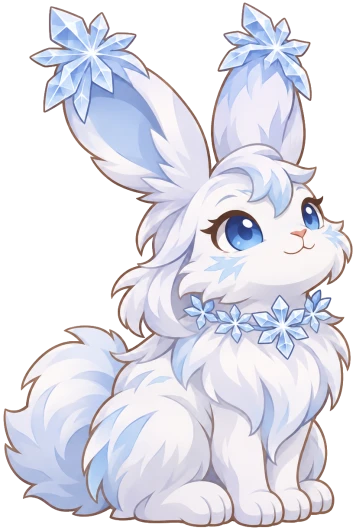
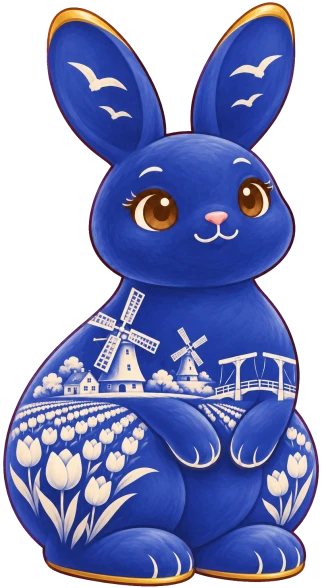
Évolution de Flocon de cristal repeinte : « Moulins et tulipes » (choix du propriétaire C)
- Assis, plus grand, porcelaine bleu cobalt peinte en blanc (couleurs du premier dessin inversées), sans pommettes roses.
- Peinture : moulins, pont-levis et champs de tulipes autour d'Amsterdam, mouettes dans les oreilles.
- Peint sur fond magenta et détouré ; paupières et truffe refaites, versions WebP, ancrages de la cuisine relus, taille qui garde la surface de l'ancienne évolution.

diff --git a/src/config/evolvedArt.ts b/src/config/evolvedArt.ts
@@ -105,7 +105,7 @@ export const EVOLVED_ART: readonly EvolvedSprite[] = [
   {id: 'bouyoyo', name: 'Boyoyoyoyoyo', file: 'assets/rabbits/bouyoyo/bouyoyo-v2.png', texture: 'rabbit-bouyoyo-evolved-v2', width: 452, height: 442, worldWidth: 53.3, groundY: 12},
   {id: 'lapin-de-sulli', name: 'Wtf', file: 'assets/rabbits/lapin-de-sulli/lapin-de-sulli-v2.png', texture: 'rabbit-lapin-de-sulli-evolved-v2', width: 361, height: 575, worldWidth: 42.6, groundY: 12, facing: 'left'},
   {id: 'pain-epice', name: 'Pâtissier', file: 'assets/rabbits/pain-epice/pain-epice-v2.png', texture: 'rabbit-pain-epice-evolved-v2', width: 419, height: 468, worldWidth: 49.4, groundY: 12},
-  {id: 'flocon-cristal', name: 'Floco', file: 'assets/rabbits/flocon-cristal/flocon-cristal-v2.png', texture: 'rabbit-flocon-cristal-evolved-v2', width: 356, height: 531, worldWidth: 42, groundY: 12},
+  {id: 'flocon-cristal', name: 'Floco', file: 'assets/rabbits/flocon-cristal/flocon-cristal-v2.png', texture: 'rabbit-flocon-cristal-evolved-v2', width: 322, height: 588, worldWidth: 38, groundY: 12},
   {id: 'nuage', name: 'Smooth Cloud', file: 'assets/rabbits/nuage/nuage-v2.png', texture: 'rabbit-nuage-evolved-v2', width: 405, height: 575, worldWidth: 47.7, groundY: 12, facing: 'left'},
   // Peintre Aguerri (owner, 24 November 2026): his own drawing, with a starry beret, a scarf, a brush and a satchel of brushes.
   {id: 'champignon', name: 'Roi des sous-bois', file: 'assets/rabbits/champignon/champignon-v2.png', texture: 'rabbit-champignon-evolved-v2', width: 488, height: 477, worldWidth: 57.6, groundY: 12},

diff --git a/src/config/cuisineAnchors.ts b/src/config/cuisineAnchors.ts
@@ -122,7 +122,7 @@ export const EVOLVED_CUISINE_ANCHORS: Partial<Record<SpeciesId, CuisineAnchors>>
   champignon: a([.73, .19, .26, 6], [.8, .5, .24], [.78, .375, .22]),
   'lapin-de-sulli': a([.42, .16, .34, -2], [.38, .4, .34], [.3, .28, .3]),
   'pain-epice': a([.81, .3, .3, 6], [.82, .55, .3], [.84, .4, .26]), // 24 Nov. 2026: icing, sitting like the base.
-  'flocon-cristal': a([.62, .14, .34, 4], [.64, .45, .28], [.66, .3, .28]),
+  'flocon-cristal': a([.6, .23, .44, 2], [.6, .5, .44], [.6, .36, .46]), // 24 Nov. 2026: « Moulins et tulipes ».
   vantablack: a([.43, .21, .44, -6], [.3, .51, .36], [.27, .37, .4]), // 19 Nov. 2026: evolution redrawn upright, looking left.
   'gigi-rarafe': a([.64, .14, .26, 8], [.68, .4, .22], [.7, .23, .26]), // 24 Nov. 2026: fashion model.
   yetiti: a([.38, .1, .3, -4], [.4, .33, .3], [.4, .2, .24]),

diff --git a/docs/rabbit-integration.md b/docs/rabbit-integration.md
@@ -66,6 +66,6 @@ Depuis le 3 novembre 2026, les 35 espèces listées dans `src/config/evolvedArt.
 2. ajouter une ligne à `EVOLVED_ART` (largeur et hauteur à 0, largeur monde qui garde la surface du v1) et une entrée `<id>-evolution` à `scripts/rabbit-art-manifest.json` (`species`, `master`, `registry`, `displayScale`, `file`, `worldWidth`), puis `node scripts/derive-rabbit-art.mjs <id>-evolution` ;
 3. lire les ancrages de la toque et de la couronne sur le v2 (`EVOLVED_CUISINE_ANCHORS`, `src/config/cuisineAnchors.ts`).
 
-Le 24 novembre 2026, sept évolutions ont été repeintes à partir du premier dessin de leur lapin (Ardent, Rennes, Pain d'épice, Gigi-rarafe, Dinono, Piment, Fantôme), sur fond magenta uni. Leurs sources `<id>-evolution-source.png` sont déjà détourées (transparentes) : `prepare-rabbit-masters.mjs` les recadre seulement.
+Le 24 novembre 2026, sept évolutions ont été repeintes à partir du premier dessin de leur lapin (Ardent, Rennes, Pain d'épice, Gigi-rarafe, Dinono, Piment, Fantôme), puis Flocon de cristal (« Moulins et tulipes » : porcelaine bleu cobalt peinte en blanc), sur fond magenta uni. Leurs sources `<id>-evolution-source.png` sont déjà détourées (transparentes) : `prepare-rabbit-masters.mjs` les recadre seulement.
 
 Chaque évolution a ses propres paupières et sa propre truffe (7 novembre 2026), choisies d'après le dessin affiché ; pendant les poses peintes de Dadi évolué, elles sont cachées. La Forêt de Brocéliande (10 000 pièces, niveau 20) permet ensuite de remettre l'ancien dessin, lapin par lapin (`classicLook` dans la sauvegarde v23).
